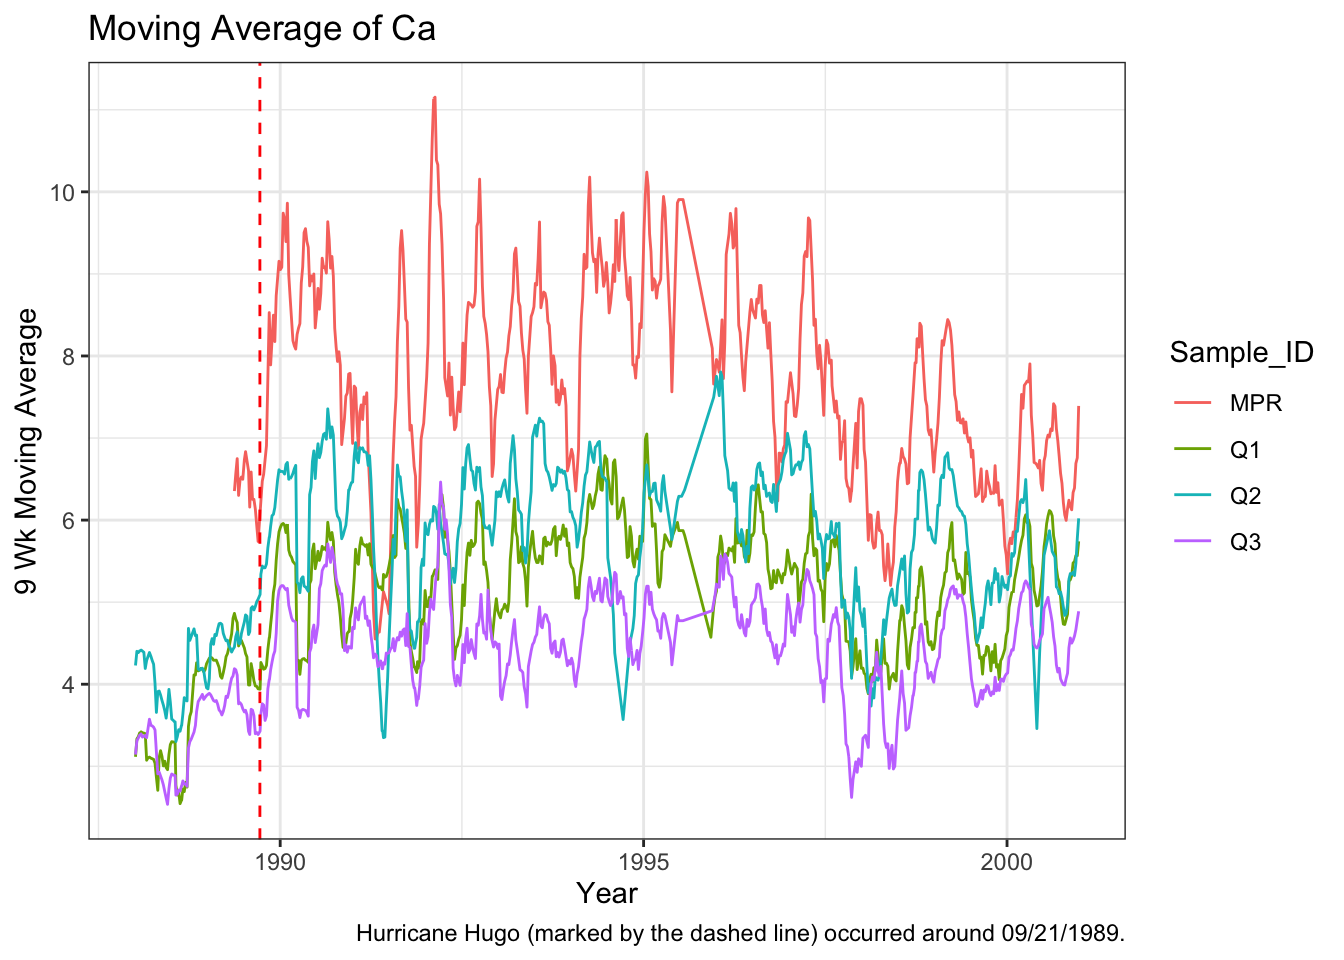
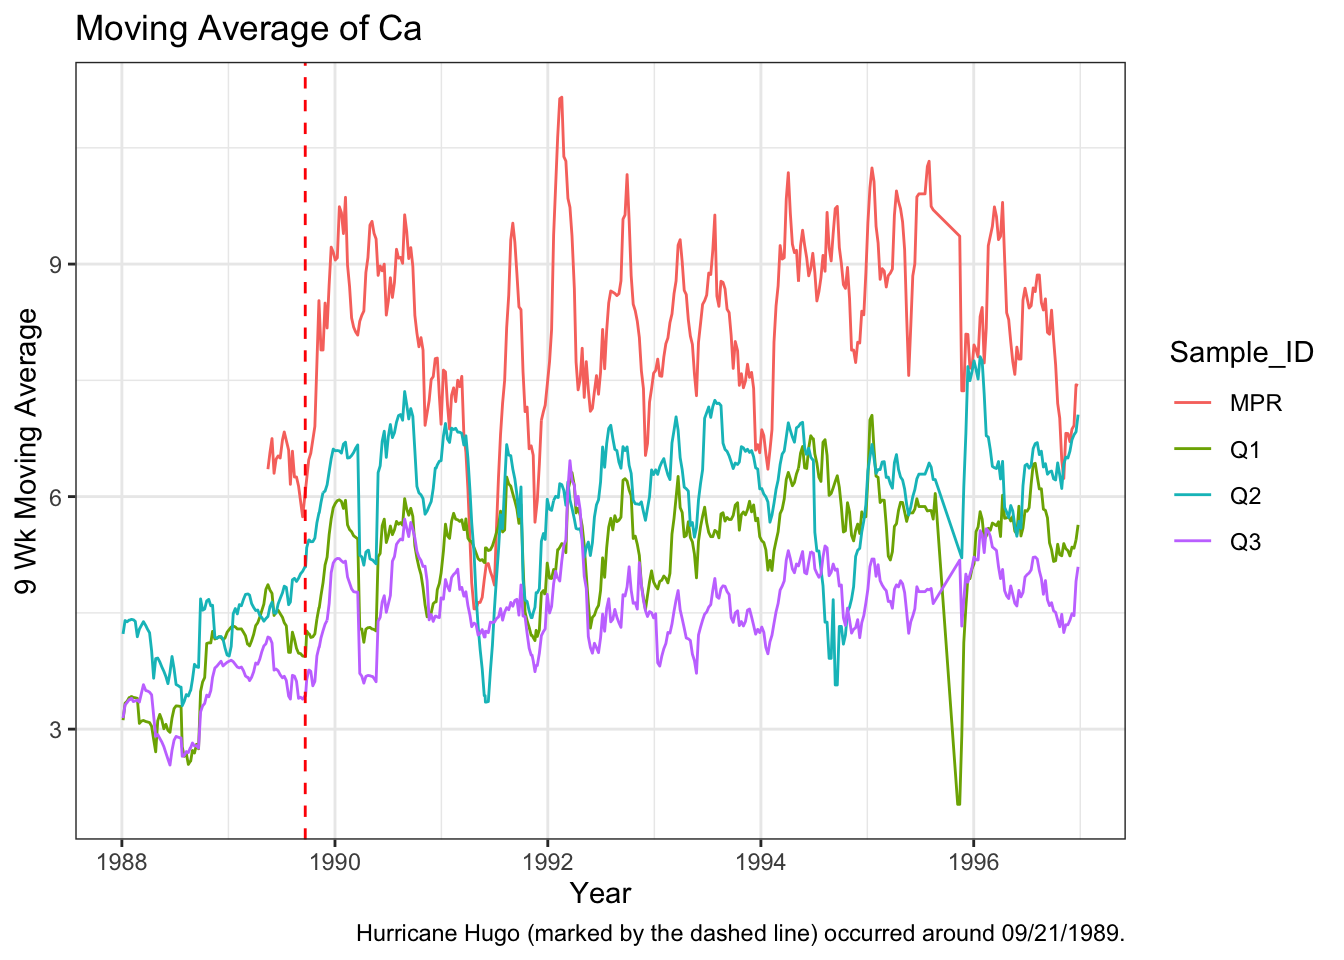
fixed rendering

diff --git a/docs/index.html b/docs/index.html
@@ -100,7 +100,7 @@ pre > code.sourceCode > span > a:first-child::before { text-decoration: underlin
 </section>
 <section id="data" class="level1">
 <h1>Data</h1>
-<p>The dataset .</p>
+<p>The data is publicly available on the EDI Data Portal and appears as separate files for each sampling site. For this analysis, the “QuebradaCuenca1-Bisley”, “QuebradaCuenca2-Bisley”, “QuebradaCuenca3-Bisley”, and “RioMameyesPuenteRoto.csv” were downloaded for the Q1, Q2, Q3, and RMP sample sites. Each file was read in from the data folder and were fully joined to create a single unique dataset called “qb_pmr.”</p>
 <div class="cell">
 <div class="sourceCode cell-code" id="cb1"><pre class="sourceCode r code-with-copy"><code class="sourceCode r"><span id="cb1-1"><a href="#cb1-1" aria-hidden="true" tabindex="-1"></a><span class="fu">library</span>(tidyverse)</span></code><button title="Copy to Clipboard" class="code-copy-button"><i class="bi"></i></button></pre></div>
 <div class="cell-output cell-output-stderr">
@@ -306,6 +306,7 @@ TDNCode, SiO2Code, DONCode, TSS, Turbidity)`</code></pre>
 </section>
 <section id="methods" class="level1">
 <h1>Methods</h1>
+<p>The combine dataset</p>
 <div class="cell">
 <div class="sourceCode cell-code" id="cb22"><pre class="sourceCode r code-with-copy"><code class="sourceCode r"><span id="cb22-1"><a href="#cb22-1" aria-hidden="true" tabindex="-1"></a><span class="co"># tidy </span></span>
 <span id="cb22-2"><a href="#cb22-2" aria-hidden="true" tabindex="-1"></a><span class="co"># select variables needed</span></span>
@@ -372,8 +373,8 @@ TDNCode, SiO2Code, DONCode, TSS, Turbidity)`</code></pre>
 <span id="cb29-7"><a href="#cb29-7" aria-hidden="true" tabindex="-1"></a><span class="cf">for</span> (i <span class="cf">in</span> nutrient_list) {</span>
 <span id="cb29-8"><a href="#cb29-8" aria-hidden="true" tabindex="-1"></a>  <span class="co"># i is not a position but a "type" of nutrient</span></span>
 <span id="cb29-9"><a href="#cb29-9" aria-hidden="true" tabindex="-1"></a>  plot_store <span class="ot">&lt;-</span> qb_pmr_ma <span class="sc">%&gt;%</span> <span class="fu">mutate</span>(<span class="at">year_sample =</span> <span class="fu">year</span>(Sample_Date)) <span class="sc">%&gt;%</span></span>
-<span id="cb29-10"><a href="#cb29-10" aria-hidden="true" tabindex="-1"></a>    <span class="fu">filter</span>(nutrients <span class="sc">==</span> i, year_sample <span class="sc">&gt;=</span> <span class="dv">1988</span> <span class="sc">&amp;</span> year_sample <span class="sc">&lt;=</span> <span class="dv">2000</span>) <span class="sc">%&gt;%</span></span>
-<span id="cb29-11"><a href="#cb29-11" aria-hidden="true" tabindex="-1"></a>    <span class="fu">drop_na</span>() <span class="sc">%&gt;%</span></span>
+<span id="cb29-10"><a href="#cb29-10" aria-hidden="true" tabindex="-1"></a>    <span class="fu">filter</span>(nutrients <span class="sc">==</span> i, year_sample <span class="sc">&gt;=</span> <span class="dv">1988</span> <span class="sc">&amp;</span> year_sample <span class="sc">&lt;=</span> <span class="dv">1996</span>) <span class="sc">%&gt;%</span></span>
+<span id="cb29-11"><a href="#cb29-11" aria-hidden="true" tabindex="-1"></a>    <span class="fu">drop_na</span>(moving_avg_nutrients) <span class="sc">%&gt;%</span> </span>
 <span id="cb29-12"><a href="#cb29-12" aria-hidden="true" tabindex="-1"></a>    <span class="fu">ggplot</span>(<span class="fu">aes</span>(<span class="at">x =</span> Sample_Date, <span class="at">y =</span> moving_avg_nutrients, <span class="at">col =</span> Sample_ID, <span class="at">group =</span> Sample_ID)) <span class="sc">+</span></span>
 <span id="cb29-13"><a href="#cb29-13" aria-hidden="true" tabindex="-1"></a>    <span class="fu">geom_line</span>() <span class="sc">+</span></span>
 <span id="cb29-14"><a href="#cb29-14" aria-hidden="true" tabindex="-1"></a>    <span class="fu">labs</span>(<span class="at">title =</span> <span class="fu">paste</span>(<span class="st">"Moving Average of"</span>, i),</span>
@@ -382,37 +383,42 @@ TDNCode, SiO2Code, DONCode, TSS, Turbidity)`</code></pre>
 <span id="cb29-17"><a href="#cb29-17" aria-hidden="true" tabindex="-1"></a>    <span class="fu">theme_bw</span>() <span class="sc">+</span> <span class="fu">geom_vline</span>(<span class="at">xintercept =</span> hugo, <span class="at">linetype =</span> <span class="st">"dashed"</span>, <span class="at">col =</span> <span class="st">"red"</span>) </span>
 <span id="cb29-18"><a href="#cb29-18" aria-hidden="true" tabindex="-1"></a> </span>
 <span id="cb29-19"><a href="#cb29-19" aria-hidden="true" tabindex="-1"></a>   <span class="fu">print</span>(plot_store) </span>
-<span id="cb29-20"><a href="#cb29-20" aria-hidden="true" tabindex="-1"></a>  <span class="fu">ggsave</span>(<span class="at">filename =</span> <span class="fu">paste0</span>(<span class="st">"plot "</span>, i, <span class="st">".png"</span>), <span class="at">path =</span> here<span class="sc">::</span><span class="fu">here</span>(<span class="st">"figs"</span>), <span class="at">plot =</span> plot_store)</span>
+<span id="cb29-20"><a href="#cb29-20" aria-hidden="true" tabindex="-1"></a>  <span class="co"># ggsave(filename = paste0("plot ", i, ".png"), path = here::here("figs"), plot = plot_store)</span></span>
 <span id="cb29-21"><a href="#cb29-21" aria-hidden="true" tabindex="-1"></a>}</span></code><button title="Copy to Clipboard" class="code-copy-button"><i class="bi"></i></button></pre></div>
 <div class="cell-output-display">
 <p><img src="paper_files/figure-html/unnamed-chunk-5-1.png" class="img-fluid" width="672"></p>
 </div>
-<div class="cell-output cell-output-stderr">
-<pre><code>Saving 7 x 5 in image</code></pre>
-</div>
 <div class="cell-output-display">
 <p><img src="paper_files/figure-html/unnamed-chunk-5-2.png" class="img-fluid" width="672"></p>
-</div>
-<div class="cell-output cell-output-stderr">
-<pre><code>Saving 7 x 5 in image</code></pre>
 </div>
 <div class="cell-output-display">
 <p><img src="paper_files/figure-html/unnamed-chunk-5-3.png" class="img-fluid" width="672"></p>
 </div>
-<div class="cell-output cell-output-stderr">
-<pre><code>Saving 7 x 5 in image</code></pre>
-</div>
 <div class="cell-output-display">
 <p><img src="paper_files/figure-html/unnamed-chunk-5-4.png" class="img-fluid" width="672"></p>
-</div>
-<div class="cell-output cell-output-stderr">
-<pre><code>Saving 7 x 5 in image</code></pre>
 </div>
 <div class="cell-output-display">
 <p><img src="paper_files/figure-html/unnamed-chunk-5-5.png" class="img-fluid" width="672"></p>
 </div>
-<div class="cell-output cell-output-stderr">
-<pre><code>Saving 7 x 5 in image</code></pre>
+<div class="sourceCode cell-code" id="cb30"><pre class="sourceCode r code-with-copy"><code class="sourceCode r"><span id="cb30-1"><a href="#cb30-1" aria-hidden="true" tabindex="-1"></a><span class="co"># # create subset to see where most nans are</span></span>
+<span id="cb30-2"><a href="#cb30-2" aria-hidden="true" tabindex="-1"></a> <span class="co"># qb_pmr_ma %&gt;% filter(moving_avg_nutrients != is.nan(qb_pmr_ma$moving_avg_nutrients), nutrients == "NH4-N") %&gt;% #drop_na(moving_avg_nutrients) %&gt;%</span></span>
+<span id="cb30-3"><a href="#cb30-3" aria-hidden="true" tabindex="-1"></a> <span class="co">#    ggplot(aes(x = Sample_Date, y = moving_avg_nutrients, col = Sample_ID, group = Sample_ID)) +</span></span>
+<span id="cb30-4"><a href="#cb30-4" aria-hidden="true" tabindex="-1"></a> <span class="co">#    geom_line() +</span></span>
+<span id="cb30-5"><a href="#cb30-5" aria-hidden="true" tabindex="-1"></a> <span class="co">#    # labs(title = paste("Moving Average of", i),</span></span>
+<span id="cb30-6"><a href="#cb30-6" aria-hidden="true" tabindex="-1"></a> <span class="co">#    #      y = "9 Wk Moving Average",</span></span>
+<span id="cb30-7"><a href="#cb30-7" aria-hidden="true" tabindex="-1"></a> <span class="co">#    #      x = "Year", caption = "Hurricane Hugo (marked by the dashed line) occurred around 09/21/1989.") +</span></span>
+<span id="cb30-8"><a href="#cb30-8" aria-hidden="true" tabindex="-1"></a> <span class="co">#    theme_bw() + geom_vline(xintercept = hugo, linetype = "dashed", col = "red")</span></span>
+<span id="cb30-9"><a href="#cb30-9" aria-hidden="true" tabindex="-1"></a> </span>
+<span id="cb30-10"><a href="#cb30-10" aria-hidden="true" tabindex="-1"></a>qb_pmr_ma <span class="sc">%&gt;%</span> <span class="fu">mutate</span>(<span class="at">year_sample =</span> <span class="fu">year</span>(Sample_Date)) <span class="sc">%&gt;%</span></span>
+<span id="cb30-11"><a href="#cb30-11" aria-hidden="true" tabindex="-1"></a>    <span class="fu">filter</span>(year_sample <span class="sc">&gt;=</span> <span class="dv">1988</span> <span class="sc">&amp;</span> year_sample <span class="sc">&lt;=</span> <span class="dv">1998</span>) <span class="sc">%&gt;%</span></span>
+<span id="cb30-12"><a href="#cb30-12" aria-hidden="true" tabindex="-1"></a>    <span class="fu">drop_na</span>(moving_avg_nutrients) <span class="sc">%&gt;%</span>  </span>
+<span id="cb30-13"><a href="#cb30-13" aria-hidden="true" tabindex="-1"></a>    <span class="fu">ggplot</span>(<span class="fu">aes</span>(<span class="at">x =</span> Sample_Date, <span class="at">y =</span> moving_avg_nutrients, <span class="at">col =</span> Sample_ID, <span class="at">group =</span> Sample_ID)) <span class="sc">+</span></span>
+<span id="cb30-14"><a href="#cb30-14" aria-hidden="true" tabindex="-1"></a>    <span class="fu">geom_line</span>() <span class="sc">+</span> <span class="fu">theme_bw</span>() <span class="sc">+</span> </span>
+<span id="cb30-15"><a href="#cb30-15" aria-hidden="true" tabindex="-1"></a>    <span class="fu">labs</span>(<span class="at">title =</span> <span class="st">"Nine Week Moving Averages of Nutrients/Contaminants (1988-1998)"</span>,</span>
+<span id="cb30-16"><a href="#cb30-16" aria-hidden="true" tabindex="-1"></a>         <span class="at">y =</span> <span class="st">"Moving Average (nine weeks)"</span>,</span>
+<span id="cb30-17"><a href="#cb30-17" aria-hidden="true" tabindex="-1"></a>         <span class="at">x =</span> <span class="st">"Year"</span>, <span class="at">caption =</span> <span class="st">"Hurricane Hugo (marked by the dashed line) occurred around 09/21/1989."</span>) <span class="sc">+</span> <span class="fu">facet_wrap</span>(<span class="sc">~</span><span class="fu">factor</span>(nutrients), <span class="at">scales =</span> <span class="st">"free_y"</span>) <span class="sc">+</span> <span class="fu">geom_vline</span>(<span class="at">xintercept =</span> hugo, <span class="at">linetype =</span> <span class="st">"dashed"</span>, <span class="at">col =</span> <span class="st">"red"</span>) </span></code><button title="Copy to Clipboard" class="code-copy-button"><i class="bi"></i></button></pre></div>
+<div class="cell-output-display">
+<p><img src="paper_files/figure-html/unnamed-chunk-5-6.png" class="img-fluid" width="672"></p>
 </div>
 </div>
 </section>
